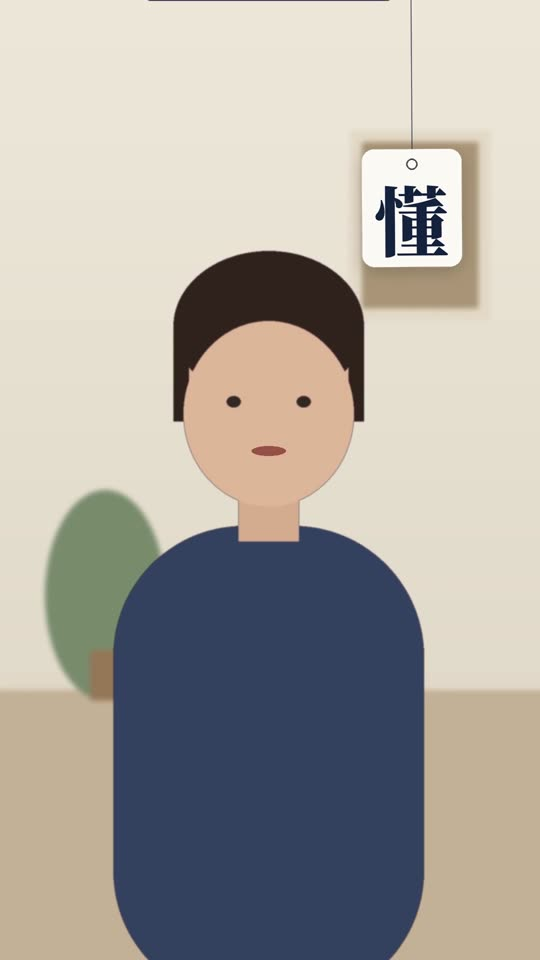
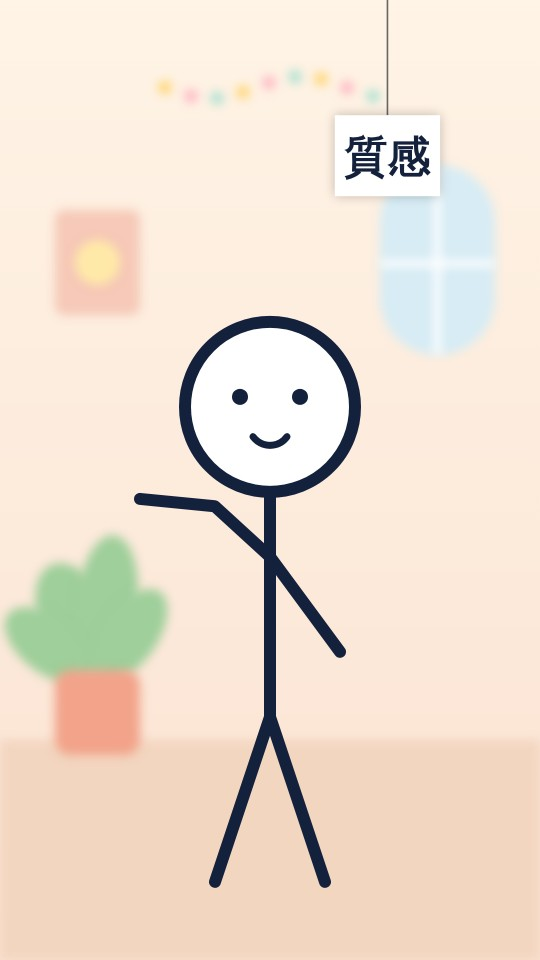
特效示範圖換成火柴人；我的影片改成點開才看按鈕
Claude-Session: https://claude.ai/code/session_01FP6bh6v7epAALngTXFdDHq

diff --git a/public/ai/video.js b/public/ai/video.js
@@ -267,6 +267,7 @@
     if (!rows.length && !wait) { t.hidden = true; return; } t.hidden = false;
     t.innerHTML = "<b>待你處理</b>" + rows.map(function (j) { var w = j.status === "review" ? "字幕打好了，請確認" : j.status === "rendering" ? "字幕確認好了，按開始出片" : "剪好了，可以下載"; return '<div class="row"><span>#' + j.id + "　" + w + '</span><button class="btn sm" type="button" data-go="' + j.id + '">' + (j.status === "done" ? "去下載" : "去確認") + "</button></div>"; }).join("") + (wait ? '<span class="note">另外有 ' + wait + " 支正在處理中，好了會出現在這裡（不用一直重新整理）。</span>" : "");
     $$("[data-go]").forEach(function (b) { b.onclick = function () { var j = JOBS.filter(function (x) { return x.id === +b.dataset.go; })[0]; if (!j) return; if (j.status === "review" || j.status === "rendering") openEd(j.id); else { var el = document.querySelector('[data-ed="' + j.id + '"]'); if (el) el.parentNode.scrollIntoView({ behavior: "smooth", block: "center" }); } }; }); }
+  var jobOpen = 0;
   function draw() { var box = $("#jobs"), c = VAI.client(); todo(); quest();
     if (editor) { editor.close(); editor = null; }
     if (!JOBS.length) { box.innerHTML = '<p class="note">還沒有影片。上面選好素材送出就會出現在這裡。</p>'; return; }
@@ -279,8 +280,11 @@
       if (j.purged_at || (j.result && j.result.expired)) btn = '<span class="note">已超過 3 天保存期限，檔案已刪除</span>';
       else if (j.status === "done" && j.result && j.result.path) btn = keep(j) + '<button class="btn sm" type="button" data-get="' + E(j.result.path) + '">下載成品</button>' + (sub ? (left > 0 ? '<button class="btn sm gh" type="button" data-edit="' + j.id + '">改字幕再出一次（還可以 ' + (renderCap >= 1000 ? "不限" : left) + " 次）</button>" : '<span class="note">修改次數用完了</span>') : "");
       if (j.lines && j.lines.length) btn += '<button class="btn sm gh" type="button" data-srt="' + j.id + '">下載字幕檔</button>';
-      return '<div class="jobw"><div class="job"><span><b>#' + j.id + "</b>　" + E(j.style || "") + "・" + new Date(j.created_at || Date.now()).toLocaleString("zh-TW", { month: "numeric", day: "numeric", hour: "2-digit", minute: "2-digit" }) + '</span><span class="s ' + j.status + '">' + (ST[j.status] || j.status) + (j.trial ? "・試用" : "") + "</span>" + btn + (busy[j.id] ? '<span class="note" data-busy="' + j.id + '" style="flex-basis:100%">' + E(busy[j.id]) + "</span>" : "") + '</div><div data-ed="' + j.id + '"></div></div>'; }).join("")
+      // Vic 11/5：每支只顯示編號和狀態，點開才看到下載、確認這些按鈕，不然太擠
+      var op = jobOpen === j.id || !!busy[j.id];
+      return '<div class="jobw"><div class="job jc' + (op ? " open" : "") + '"><button type="button" class="jc-h" data-jt="' + j.id + '" aria-expanded="' + op + '"><b>#' + j.id + '</b><small>' + new Date(j.created_at || Date.now()).toLocaleString("zh-TW", { month: "numeric", day: "numeric", hour: "2-digit", minute: "2-digit" }) + '</small><span class="s ' + j.status + '">' + (ST[j.status] || j.status) + (j.trial ? "・試用" : "") + '</span><i aria-hidden="true">▸</i></button><div class="jc-b"' + (op ? "" : " hidden") + '>' + (j.style ? '<span class="note" style="flex-basis:100%">' + E(j.style) + "</span>" : "") + btn + (busy[j.id] ? '<span class="note" data-busy="' + j.id + '" style="flex-basis:100%">' + E(busy[j.id]) + "</span>" : "") + '</div></div><div data-ed="' + j.id + '"></div></div>'; }).join("")
     if (dead.length) box.innerHTML += '<details class="fxc" style="margin-top:8px"><summary style="display:flex;justify-content:space-between;padding:10px 12px"><b style="font-size:14px">已刪除的影片（' + dead.length + ' 支，超過 3 天保存期限）</b><i aria-hidden="true">▾</i></summary><div style="padding:0 12px 10px;display:flex;flex-direction:column;gap:4px">' + dead.map(function (j) { return '<span class="note">#' + j.id + "　" + E(j.style || "") + "・" + new Date(j.created_at || Date.now()).toLocaleString("zh-TW", { month: "numeric", day: "numeric", hour: "2-digit", minute: "2-digit" }) + "</span>"; }).join("") + "</div></details>";
+    $$("[data-jt]").forEach(function (b) { b.onclick = function () { var id = +b.dataset.jt; jobOpen = jobOpen === id ? 0 : id; $$("[data-jt]").forEach(function (q) { var on = +q.dataset.jt === jobOpen; q.setAttribute("aria-expanded", String(on)); q.parentNode.classList.toggle("open", on); q.nextElementSibling.hidden = !on; }); }; });
     $$("[data-get]").forEach(function (b) { b.onclick = async function () { var s = await c.storage.from("ai-videos").createSignedUrl(b.dataset.get, 3600, { download: true }); if (!s.error) location.href = s.data.signedUrl; }; });
     $$("[data-stt]").forEach(function (b) { b.onclick = function () { var j = JOBS.filter(function (x) { return x.id === +b.dataset.stt; })[0]; sttRun(j); }; });
     $$("[data-render]").forEach(function (b) { b.onclick = function () { var j = JOBS.filter(function (x) { return x.id === +b.dataset.render; })[0]; renderRun(j); }; });

diff --git a/public/ai-video.html b/public/ai-video.html
@@ -174,7 +174,7 @@
 </style>
 <script>!function(t,e){var o,n,p,r;e.__SV||(window.posthog=e,e._i=[],e.init=function(i,s,a){function g(t,e){var o=e.split(".");2==o.length&&(t=t[o[0]],e=o[1]),t[e]=function(){t.push([e].concat(Array.prototype.slice.call(arguments,0)))}}(p=t.createElement("script")).type="text/javascript",p.crossOrigin="anonymous",p.async=!0,p.src=s.api_host.replace(".i.posthog.com","-assets.i.posthog.com")+"/static/array.js",(r=t.getElementsByTagName("script")[0]).parentNode.insertBefore(p,r);var u=e;for(void 0!==a?u=e[a]=[]:a="posthog",u.people=u.people||[],u.toString=function(t){var e="posthog";return"posthog"!==a&&(e+="."+a),t||(e+=" (stub)"),e},u.people.toString=function(){return u.toString(1)+".people (stub)"},o="init capture register register_once register_for_session unregister unregister_for_session getFeatureFlag getFeatureFlagPayload isFeatureEnabled reloadFeatureFlags updateEarlyAccessFeatureEnrollment getEarlyAccessFeatures on onFeatureFlags onSessionId getSurveys getActiveMatchingSurveys renderSurvey canRenderSurvey getNextSurveyStep identify setPersonProperties group resetGroups setPersonPropertiesForFlags resetPersonPropertiesForFlags setGroupPropertiesForFlags resetGroupPropertiesForFlags reset get_distinct_id getGroups get_session_id get_session_replay_url alias set_config startSessionRecording stopSessionRecording sessionRecordingStarted captureException loadToolbar get_property getSessionProperty createPersonProfile opt_in_capturing opt_out_capturing has_opted_in_capturing has_opted_out_capturing clear_opt_in_out_capturing debug".split(" "),n=0;n<o.length;n++)g(u,o[n]);e._i.push([i,s,a])},e.__SV=1)}(document,window.posthog||[]);
 if(!/^\/(admin|office)/.test(location.pathname)&&!/admin/.test(location.pathname)){posthog.init('phc_vYx5vaQf44FpRtbfbKyytEkvtHaPoHpSunW89Bz2eHao',{api_host:'https://us.i.posthog.com',person_profiles:'identified_only',capture_exceptions:true})}</script>
-<link rel="stylesheet" href="/ai/neon.css?v=1105f">
+<link rel="stylesheet" href="/ai/neon.css?v=1105g">
 <style>
 .faqs{display:flex;flex-direction:column;gap:8px}.acc{border:1px solid var(--line);background:#fff}.acc>summary{cursor:pointer;list-style:none;display:flex;justify-content:space-between;align-items:center;gap:12px;padding:14px 16px;font-weight:700;font-size:15px;line-height:1.5}.acc>summary::-webkit-details-marker{display:none}.acc>summary::after{content:"+";font-size:20px;color:var(--gold);flex-shrink:0;transition:transform .2s}.acc[open]>summary::after{transform:rotate(45deg)}.acc>p{margin:0;padding:0 16px 16px;font-size:14.5px;line-height:1.8}
 </style>
@@ -353,6 +353,6 @@ if(!/^\/(admin|office)/.test(location.pathname)&&!/admin/.test(location.pathname
 <script src="/ai/subfx.js?v=1026i"></script>
 <script src="/ai/core.js?v=1104e"></script>
 <script src="/ai/fxsim.js?v=1105a"></script><script src="/ai/subjob.js?v=1105i"></script>
-<script src="/ai/video.js?v=1105h"></script>
+<script src="/ai/video.js?v=1105i"></script>
 </body>
 </html>

diff --git a/public/ai/neon.css b/public/ai/neon.css
@@ -154,3 +154,11 @@ html.vai-in .adm summary{color:#e6f2ff}
 html.vai-in .adm summary b,html.vai-in .adm summary strong{color:#fff}
 html.vai-in .adm summary span,html.vai-in .adm .note{color:#a9c2dc!important}
 html.vai-in .adm .acc{background:#0c1a30!important}
+/* 我的影片：只顯示編號＋狀態，點開才看按鈕（Vic 11/5） */
+#work .job.jc{display:block!important;padding:0!important}
+#work .jc-h{all:unset;box-sizing:border-box;width:100%;display:flex;align-items:center;gap:10px;padding:12px 14px;cursor:pointer;color:#e6f2ff}
+#work .jc-h b{font-size:16px}#work .jc-h small{color:#8fb0d0;font-size:12.5px;flex:1}
+#work .jc-h i{font-style:normal;color:#8fb0d0;transition:transform .2s}
+#work .job.open .jc-h i{transform:rotate(90deg)}
+#work .jc-b{display:flex;flex-wrap:wrap;gap:8px;padding:0 14px 12px;align-items:center}
+#work .jc-b[hidden]{display:none}

diff --git a/public/ai-design.html b/public/ai-design.html
@@ -44,7 +44,7 @@ if(!/^\/(admin|office)/.test(location.pathname)&&!/admin/.test(location.pathname
 #work #genAI,#work #mbarDl,#work .btn.dl{animation:glow 2.2s ease-in-out infinite}@keyframes glow{0%,100%{box-shadow:0 0 0 0 #e7c56f00}50%{box-shadow:0 0 0 6px #e7c56f55}}
 #work .btn:active,#work .chip:active{transform:scale(.94)}#work .chip[aria-pressed=true]{animation:pop .28s ease}@keyframes pop{0%{transform:scale(.9)}60%{transform:scale(1.06)}100%{transform:scale(1)}}
 </style>
-<link rel="stylesheet" href="/ai/neon.css?v=1105f">
+<link rel="stylesheet" href="/ai/neon.css?v=1105g">
 <link rel="stylesheet" href="/ai/neon-design.css?v=1105c">
 </head>
 <body>
